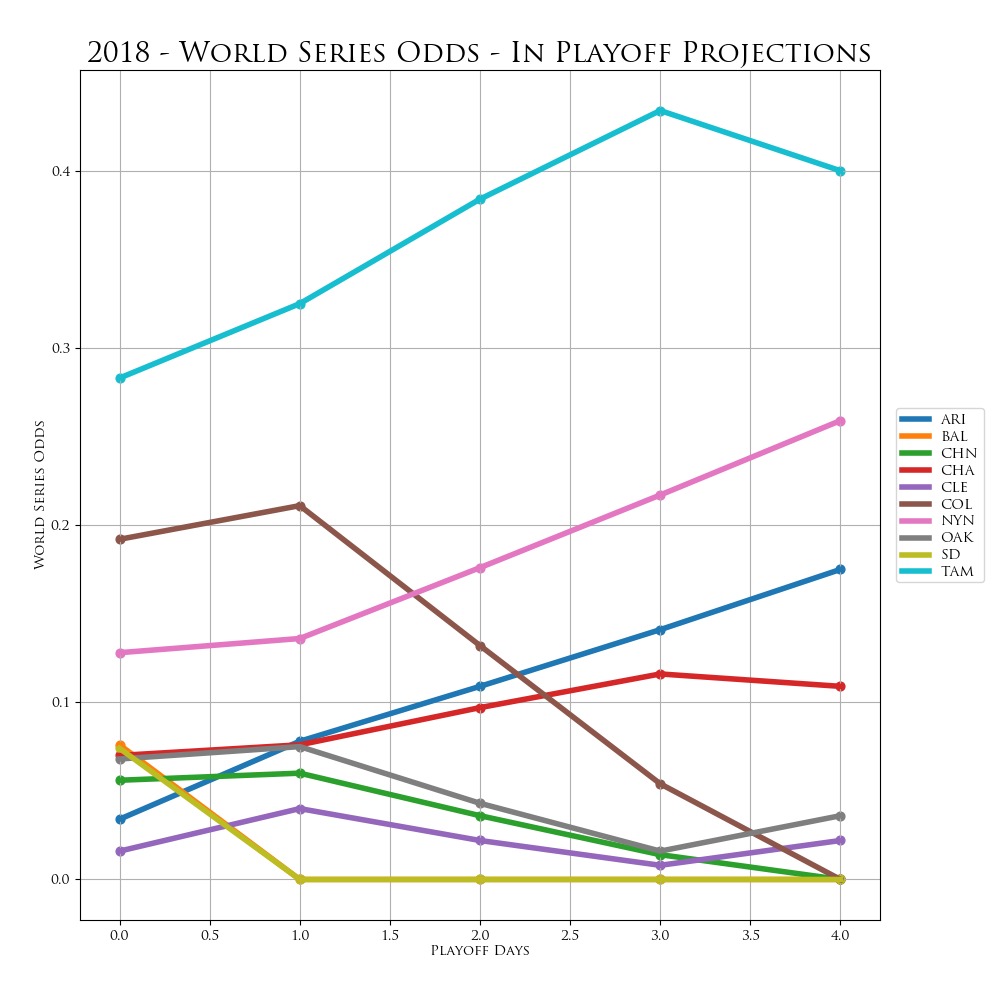
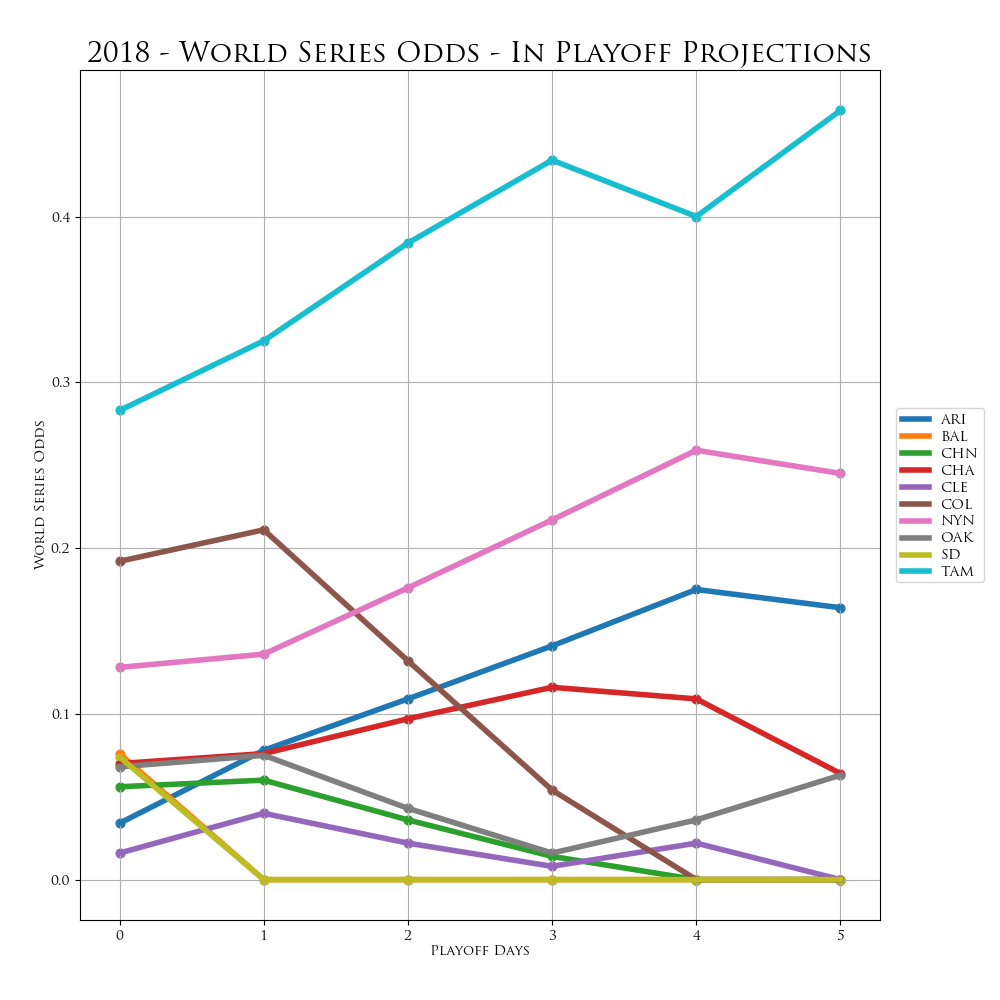
playoff NSBL update (Nov 10, 2018)

diff --git a/Tables/in_playoff_bracket.html b/Tables/in_playoff_bracket.html
@@ -227,7 +227,7 @@ c+"</h1><div>"+("function"===typeof e.message?e.message(b,h,e):e.message)+"</div
 </script>
 <script>
 		$(document).ready(function() {
-			$("#table").DataTable({"dom":"Bfrtip","sScrollX":"100%","scrollY":"70vh","buttons":["copy","csv","json","print"],"paging":true,"lengthMenu":[[-1,10,25,50],["All",10,25,50]],"data":[["ALDS1","Chicago White Sox","Oakland Athletics","2","1","75.1%","","50.1%","25.0%","",""],["ALDS1","Oakland Athletics","Chicago White Sox","1","2","24.9%","","","24.9%","",""],["ALDS2","Cleveland Indians","Tampa Bay Rays","1","2","13.7%","","","13.7%","",""],["ALDS2","Tampa Bay Rays","Cleveland Indians","2","1","86.3%","","63.0%","23.3%","",""],["ALWC","Baltimore Orioles","Cleveland Indians","0","1","0.0%","","","","",""],["ALWC","Cleveland Indians","Baltimore Orioles","1","0","100.0%","","","","",""],["NLCS","Arizona Diamondbacks","New York Mets","0","0","43.7%","","4.9%","10.4%","13.8%","14.6%"],["NLCS","New York Mets","Arizona Diamondbacks","0","0","56.3%","","7.8%","14.8%","17.4%","16.4%"],["NLDS1","Chicago Cubs","New York Mets","0","3","0.0%","","","","",""],["NLDS1","New York Mets","Chicago Cubs","3","0","100.0%","100.0%","","","",""],["NLDS2","Arizona Diamondbacks","Colorado Rockies","3","0","100.0%","100.0%","","","",""],["NLDS2","Colorado Rockies","Arizona Diamondbacks","0","3","0.0%","","","","",""],["NLWC","Arizona Diamondbacks","San Diego Padres","1","0","100.0%","","","","",""],["NLWC","San Diego Padres","Arizona Diamondbacks","0","1","0.0%","","","","",""]],"sScrollXInner":"100%","columns":[{"title":"Series ID"},{"title":"Team Name"},{"title":"Opponent Name"},{"title":"Series Wins"},{"title":"Series Losses"},{"title":"Advance Probability"},{"title":"Win in 3"},{"title":"Win in 4"},{"title":"Win in 5"},{"title":"Win in 6"},{"title":"Win in 7"}],"iDisplayLength":-1});
+			$("#table").DataTable({"dom":"Bfrtip","sScrollX":"100%","scrollY":"70vh","buttons":["copy","csv","json","print"],"paging":true,"lengthMenu":[[-1,10,25,50],["All",10,25,50]],"data":[["ALDS1","Chicago White Sox","Oakland Athletics","2","2","50.1%","","","50.1%","",""],["ALDS1","Oakland Athletics","Chicago White Sox","2","2","49.9%","","","49.9%","",""],["ALDS2","Cleveland Indians","Tampa Bay Rays","1","3","0.0%","","","","",""],["ALDS2","Tampa Bay Rays","Cleveland Indians","3","1","100.0%","","100.0%","","",""],["ALWC","Baltimore Orioles","Cleveland Indians","0","1","0.0%","","","","",""],["ALWC","Cleveland Indians","Baltimore Orioles","1","0","100.0%","","","","",""],["NLCS","Arizona Diamondbacks","New York Mets","0","0","43.7%","","4.9%","10.4%","13.8%","14.6%"],["NLCS","New York Mets","Arizona Diamondbacks","0","0","56.3%","","7.8%","14.8%","17.4%","16.4%"],["NLDS1","Chicago Cubs","New York Mets","0","3","0.0%","","","","",""],["NLDS1","New York Mets","Chicago Cubs","3","0","100.0%","100.0%","","","",""],["NLDS2","Arizona Diamondbacks","Colorado Rockies","3","0","100.0%","100.0%","","","",""],["NLDS2","Colorado Rockies","Arizona Diamondbacks","0","3","0.0%","","","","",""],["NLWC","Arizona Diamondbacks","San Diego Padres","1","0","100.0%","","","","",""],["NLWC","San Diego Padres","Arizona Diamondbacks","0","1","0.0%","","","","",""]],"sScrollXInner":"100%","columns":[{"title":"Series ID"},{"title":"Team Name"},{"title":"Opponent Name"},{"title":"Series Wins"},{"title":"Series Losses"},{"title":"Advance Probability"},{"title":"Win in 3"},{"title":"Win in 4"},{"title":"Win in 5"},{"title":"Win in 6"},{"title":"Win in 7"}],"iDisplayLength":-1});
 		});
 	</script>
 <style>

diff --git a/Tables/in_playoff_probabilities.html b/Tables/in_playoff_probabilities.html
@@ -227,7 +227,7 @@ c+"</h1><div>"+("function"===typeof e.message?e.message(b,h,e):e.message)+"</div
 </script>
 <script>
 		$(document).ready(function() {
-			$("#table").DataTable({"dom":"Bfrtip","sScrollX":"100%","scrollY":"70vh","buttons":["copy","csv","json","print"],"paging":true,"lengthMenu":[[-1,10,25,50],["All",10,25,50]],"data":[["Arizona Diamondbacks","0.0%","100.0%","100.0%","100.0%","100.0%","43.7%","17.5%"],["Baltimore Orioles","0.0%","100.0%","0.0%","0.0%","0.0%","0.0%","0.0%"],["Chicago Cubs","100.0%","0.0%","","100.0%","0.0%","0.0%","0.0%"],["Chicago White Sox","100.0%","0.0%","","100.0%","75.1%","24.8%","10.9%"],["Cleveland Indians","0.0%","100.0%","100.0%","100.0%","13.7%","5.9%","2.2%"],["Colorado Rockies","100.0%","0.0%","","100.0%","0.0%","0.0%","0.0%"],["New York Mets","100.0%","0.0%","","100.0%","100.0%","56.3%","25.9%"],["Oakland Athletics","100.0%","0.0%","","100.0%","24.9%","8.2%","3.6%"],["San Diego Padres","0.0%","100.0%","0.0%","0.0%","0.0%","0.0%","0.0%"],["Tampa Bay Rays","100.0%","0.0%","","100.0%","86.3%","61.2%","40.0%"]],"sScrollXInner":"100%","columns":[{"title":"Team Name"},{"title":"Win Div"},{"title":"Make Wild Card"},{"title":"Win Wild Card"},{"title":"Make LDS"},{"title":"Make LCS"},{"title":"Make WS"},{"title":"Win WS"}],"iDisplayLength":-1});
+			$("#table").DataTable({"dom":"Bfrtip","sScrollX":"100%","scrollY":"70vh","buttons":["copy","csv","json","print"],"paging":true,"lengthMenu":[[-1,10,25,50],["All",10,25,50]],"data":[["Arizona Diamondbacks","0.0%","100.0%","100.0%","100.0%","100.0%","43.7%","16.4%"],["Baltimore Orioles","0.0%","100.0%","0.0%","0.0%","0.0%","0.0%","0.0%"],["Chicago Cubs","100.0%","0.0%","","100.0%","0.0%","0.0%","0.0%"],["Chicago White Sox","100.0%","0.0%","","100.0%","50.1%","14.6%","6.4%"],["Cleveland Indians","0.0%","100.0%","100.0%","100.0%","0.0%","0.0%","0.0%"],["Colorado Rockies","100.0%","0.0%","","100.0%","0.0%","0.0%","0.0%"],["New York Mets","100.0%","0.0%","","100.0%","100.0%","56.3%","24.5%"],["Oakland Athletics","100.0%","0.0%","","100.0%","49.9%","14.5%","6.3%"],["San Diego Padres","0.0%","100.0%","0.0%","0.0%","0.0%","0.0%","0.0%"],["Tampa Bay Rays","100.0%","0.0%","","100.0%","100.0%","70.9%","46.4%"]],"sScrollXInner":"100%","columns":[{"title":"Team Name"},{"title":"Win Div"},{"title":"Make Wild Card"},{"title":"Win Wild Card"},{"title":"Make LDS"},{"title":"Make LCS"},{"title":"Make WS"},{"title":"Win WS"}],"iDisplayLength":-1});
 		});
 	</script>
 <style>
